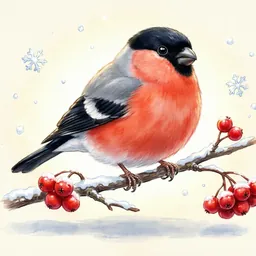
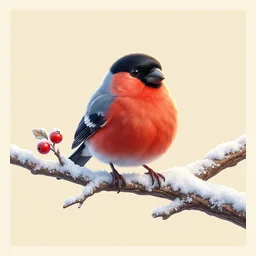
v0.114.0 — первые 10 слов в новом стиле

diff --git a/docs/RELEASE-0.114.0.md b/docs/RELEASE-0.114.0.md
@@ -1,0 +1,67 @@
+# 0.114.0 — «Тропа слов»: первые слова в новом стиле
+
+Плоские векторные картинки слов начинают уступать место тёплым
+Pixar-inspired сценам. В 0.114.0 заменены **10 ключевых слов** 2 класса —
+тех, что ребёнок видит в первой остановке, у птиц и у зверей. Остальные 247
+слов остаются на прежних картинках: волна идёт постепенно, без «половины
+пака в новом стиле».
+
+## 1. Какие слова
+
+| Слово | Файл | Вес |
+|---|---|---:|
+| алфавит | `public/words/alfavit.webp` | 3,8 КБ |
+| класс | `public/words/klass.webp` | 11,5 КБ |
+| картина | `public/words/kartina.webp` | 4,2 КБ |
+| карандаш | `public/words/karandash.webp` | 2,4 КБ |
+| воробей | `public/words/vorobey.webp` | 5,4 КБ |
+| снегирь | `public/words/snegir.webp` | 6,0 КБ |
+| петух | `public/words/petuh.webp` | 7,4 КБ |
+| ворона | `public/words/vorona.webp` | 7,7 КБ |
+| заяц | `public/words/zayats.webp` | 4,5 КБ |
+| медведь | `public/words/medved.webp` | 4,7 КБ |
+
+Всего **56 КБ** на десять картинок. Пак `public/words` стал не тяжелее, а
+легче: 1 349 КБ против 1 403 КБ в 0.113.0. Precache — 593 / 24 541 KiB
+(было 593 / 24 563 KiB).
+
+## 2. Стиль
+
+* 256×256 WebP, фон `#faf4e1`, один предмет по центру, без рамки и водяных
+  знаков;
+* мягкий объём, округлые формы, свет сверху-слева, тёплая палитра — как у
+  фонов и открыток 0.113.0;
+* у «алфавита» — раскрытая книга с буквами А и Б: это единственное слово,
+  где буквы помогают смыслу, а не подсказывают написание;
+* у остальных слов нет текста, цифр и вывесок.
+
+Картинки заменяют файлы по тем же именам, поэтому `word.image`, `WordArt`,
+`scheduleWordImages` и офлайн-кэш не меняются. Никаких новых полей в контенте.
+
+## 3. Что осталось
+
+Из двенадцати ключевых слов нарисованы десять: «лягушка» и «корова» ждут
+следующей волны. Дальше — остальные 52 слова 2 класса (волна B), затем
+предметные слова 5 класса.
+
+## 4. Проверки
+
+* `npm run images:report` — 257 картинок, покрытие 1–4 классов 100 %,
+  5 класса 13 %; файлов 260, 1 349 КБ.
+* `npm run content:check` — 367 слов, 257 картинок, контент в порядке.
+* `npm run build` — 593 entry / 24 541 KiB.
+* `npx tsc --noEmit`, `test:content`, `test:smoke`, `test:contrast`,
+  `test:boot`, `test:release` — зелёные.
+
+## 5. Файлы
+
+* `public/words/*.webp` — десять заменённых картинок.
+* `images-src/gen/*.png` — исходники (вне Git, как и раньше).
+* `docs/promo/0.114.0/word-cards-preview.webp` — превью десяти карточек.
+* `docs/proposals/art-plan-pixar.md` — статус волны A2.
+
+## 6. Что дальше
+
+«Лягушка» и «корова», затем волна B — остальные 52 слова 2 класса. После
+неё у самого проходимого класса будет полный новый стиль; только тогда
+переходим к 5 классу.

diff --git a/docs/promo/0.114.0/README.md b/docs/promo/0.114.0/README.md
@@ -1,0 +1,9 @@
+# Первые слова в новом стиле (0.114.0)
+
+`word-cards-preview.webp` — десять карточек 2 класса: «алфавит», «класс»,
+«картина», «карандаш», «воробей», «снегирь», «петух», «ворона», «заяц»,
+«медведь».
+
+Игровые файлы лежат в `public/words/*.webp` (256×256, фон `#faf4e1`).
+Исходные кадры — в `images-src/gen/` (папка вне Git). Превью не входит в
+precache и нужно только для сравнения на телефоне.
